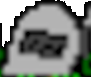
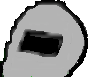
Mario Contra 11

diff --git a/other/mario-contra/level1.1.js b/other/mario-contra/level1.1.js
@@ -13,8 +13,8 @@ class Scene1_1 extends MainScene {
         this.load.image('question', 'files/grave.png');
         this.load.image('building', 'files/building.png');
         this.load.image('castle', 'files/heavy-door.png');
-        this.load.image('coin', 'files/blank.png');
-        this.load.image('fire-upgrade', 'files/blankFire.png');
+        this.load.image('coin', 'files/grave-coin.png');
+        this.load.image('fire-upgrade', 'files/grave-fire.png');
     }
 
     createSpriteGroup() {

diff --git a/other/mario-contra/level2.1.js b/other/mario-contra/level2.1.js
@@ -6,7 +6,7 @@ class Scene2_1 extends MainScene {
 
     preload() {
         super.preload();
-        const toBeRemoved = ['turtle', 'castle', 'cloud', 'ground', 'question'];
+        const toBeRemoved = ['turtle', 'castle', 'cloud', 'ground', 'question', 'fire-upgrade', 'coin'];
         toBeRemoved.forEach(texture => this.textures.remove(texture));
 
         this.load.image('ground', 'files/sprite.png');
